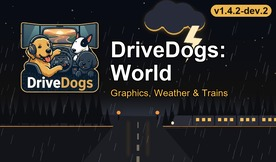
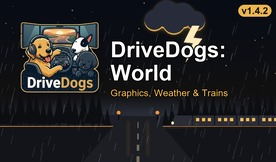
release world 1.4.2 after the playtest: rough wet grain on every asphalt, wheel tracks and wet glare on the older roads, UK junctions, yards and parking lots

Changed region(s): [[0.7536, 0.0, 0.9565, 0.1235]]

diff --git a/README.md b/README.md
@@ -4,14 +4,14 @@ ETS2 mod for the world around the road, built as a local **megapack** with the `
 `scs-mod-developer` agent profile. This repo holds only configuration and tools. The mod is built from the
 extracted base game, subscribed Workshop items and one local archive. It is never redistributed.
 
-Current content (v1.4.0, ETS2 1.61.1.9):
+Current content (v1.4.2, ETS2 1.61.1.9):
 
 - **Graphics** from Juninho944 (Weather_3.9, Asphalt_improved, grass_4.0_lite, tree_improved_4k), DIOX (Beautiful
   Nature) and Darkcaptain (Realistic Rain), in the maintainer's load order.
 - **Water, lightning and thunder** from Kass (Realistic Rain & Water & Thunder Sounds).
 - **Wet roads**: Grimes' Realistic Rain Reflections wheel tracks blended into the winning road normal maps and
-  junctions (World's own on the older roads), a rough wet grain on every asphalt, its wet reflections on sidewalks, tiles and concrete, and a softer sky mirror so the asphalt shows
-  through. Needs the game's rain reflections and reflection quality set high.
+  junctions (World's own on the older roads, UK junctions and yards), a rough wet grain on every asphalt, its wet
+  reflections on sidewalks, tiles and concrete, and a softer sky mirror so the asphalt shows through. Needs the game's rain reflections and reflection quality set high.
 - **Road signs and markings** from DBM Road Signs & Markings 4K; **real company and gas station brands** from Real
   companies & gas stations (MLH82, 4of25).
 - **Weather and time**: a rain mix of mostly light and medium rain, lighter rain fog at night so headlights reach and
